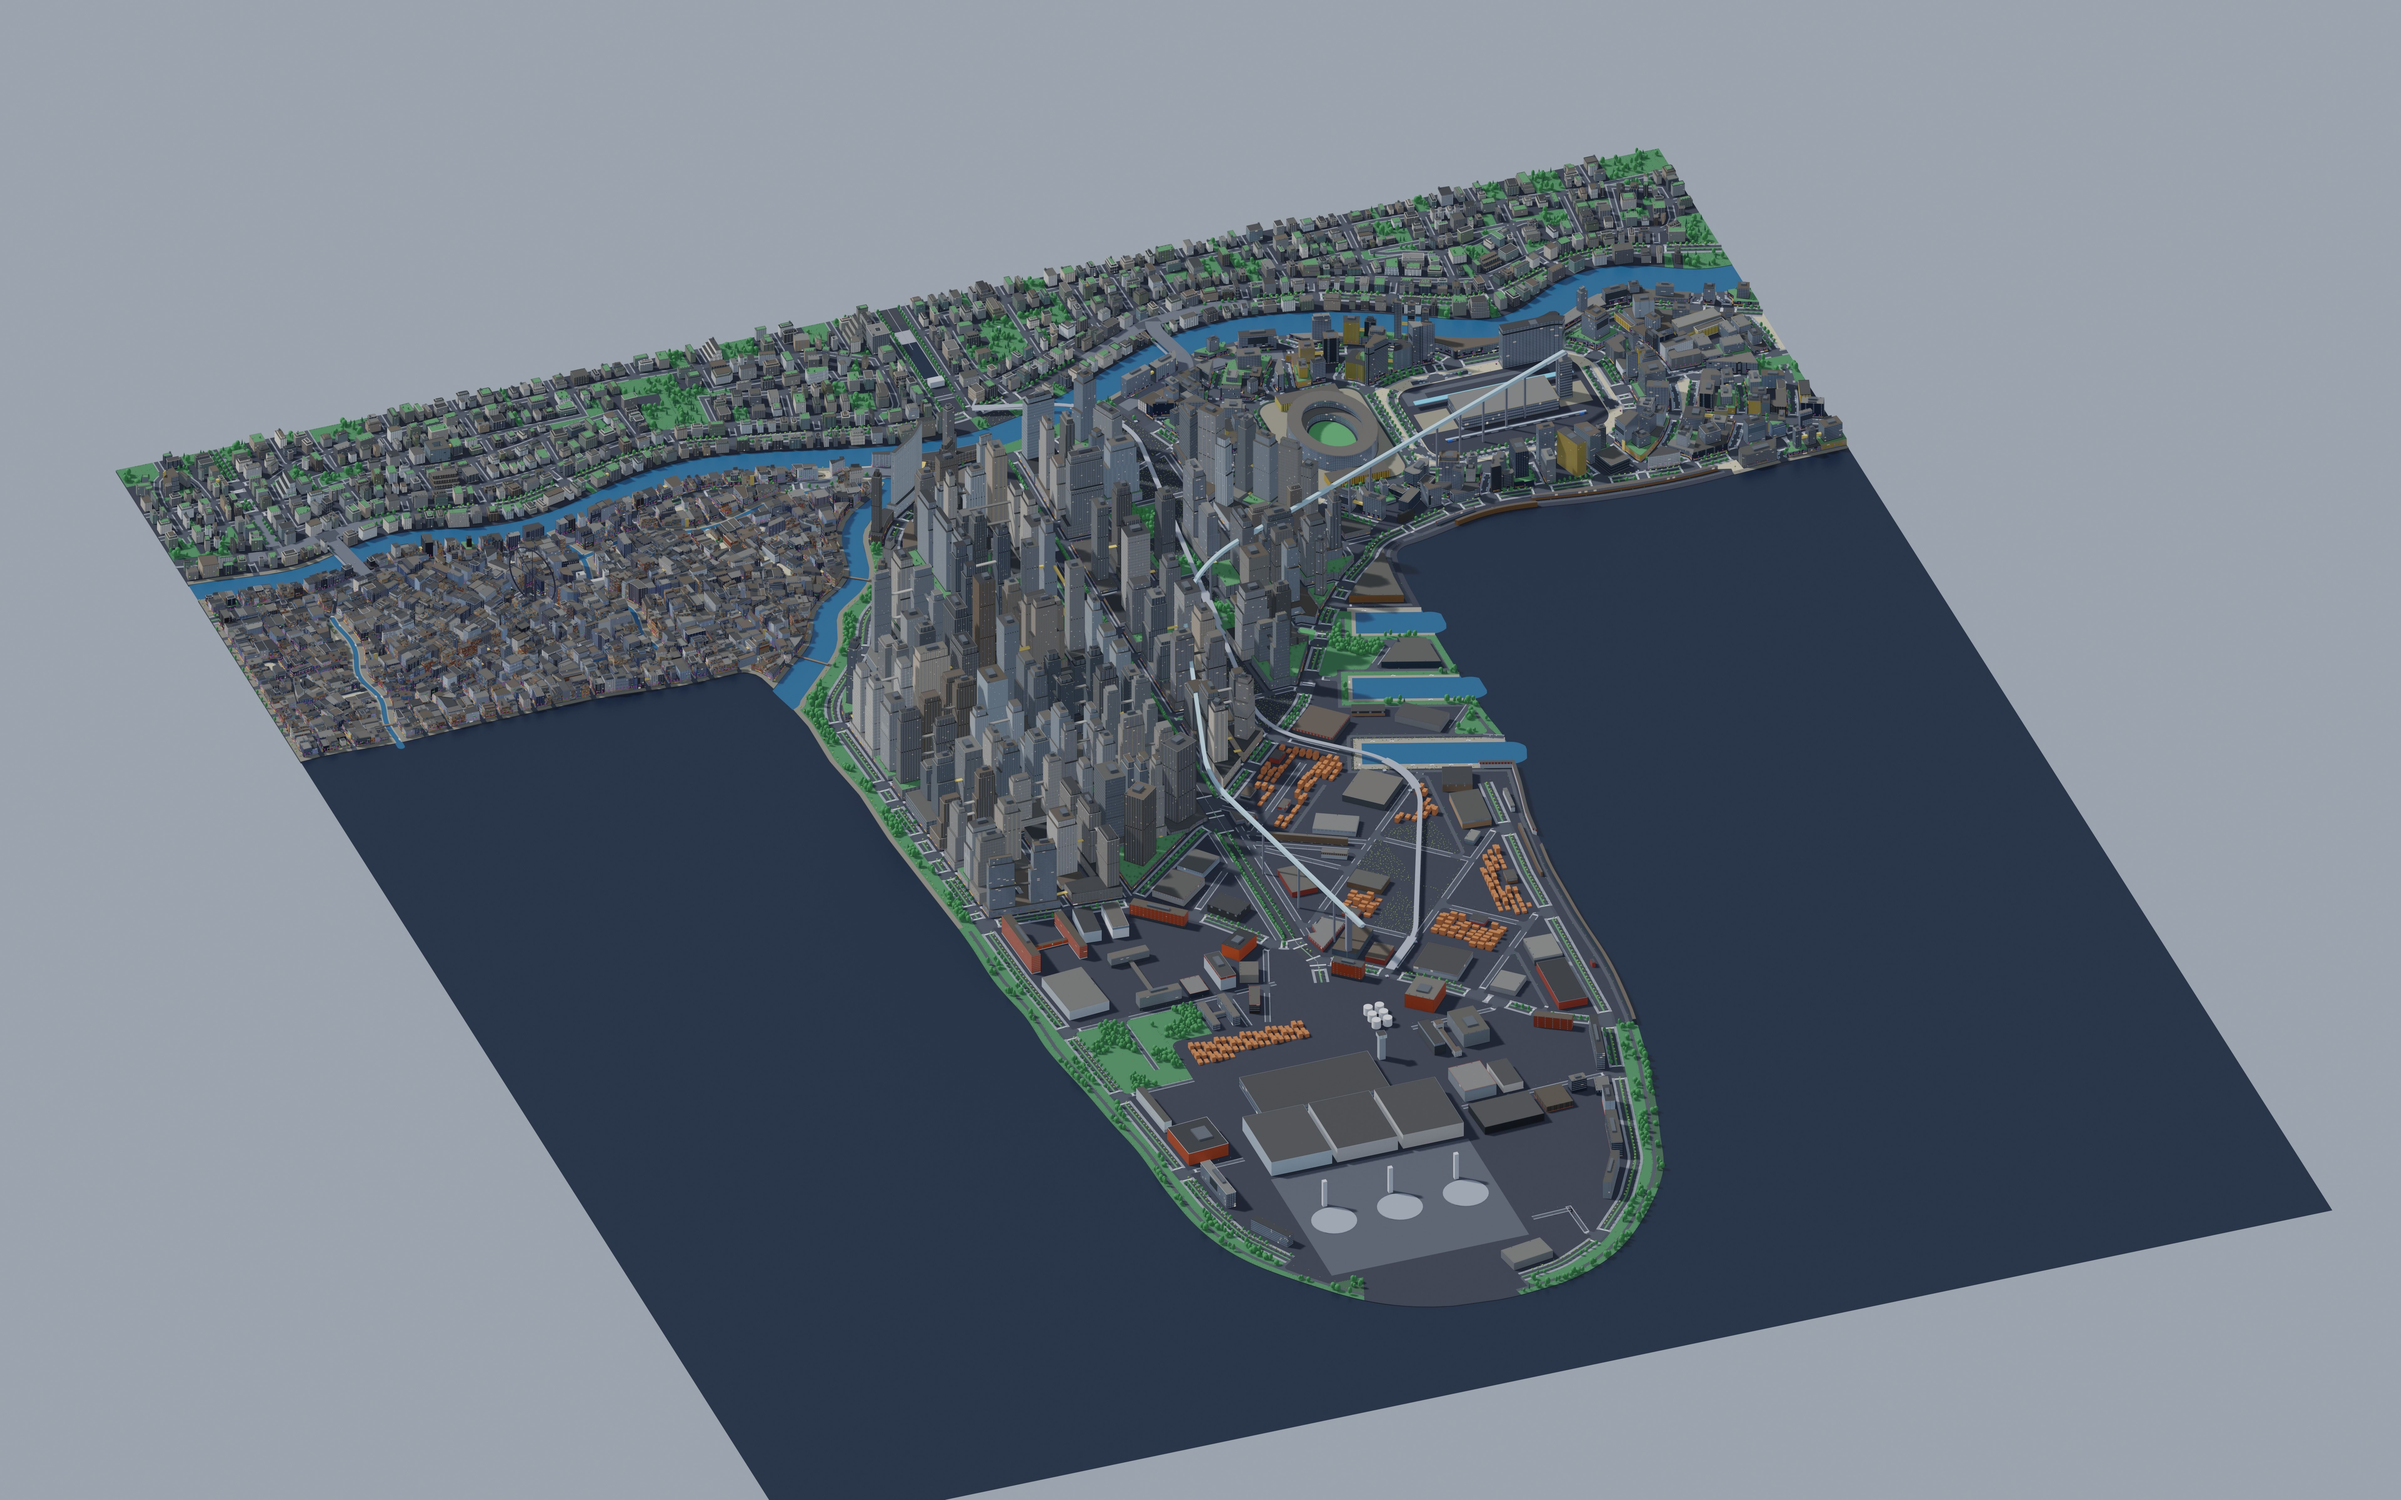
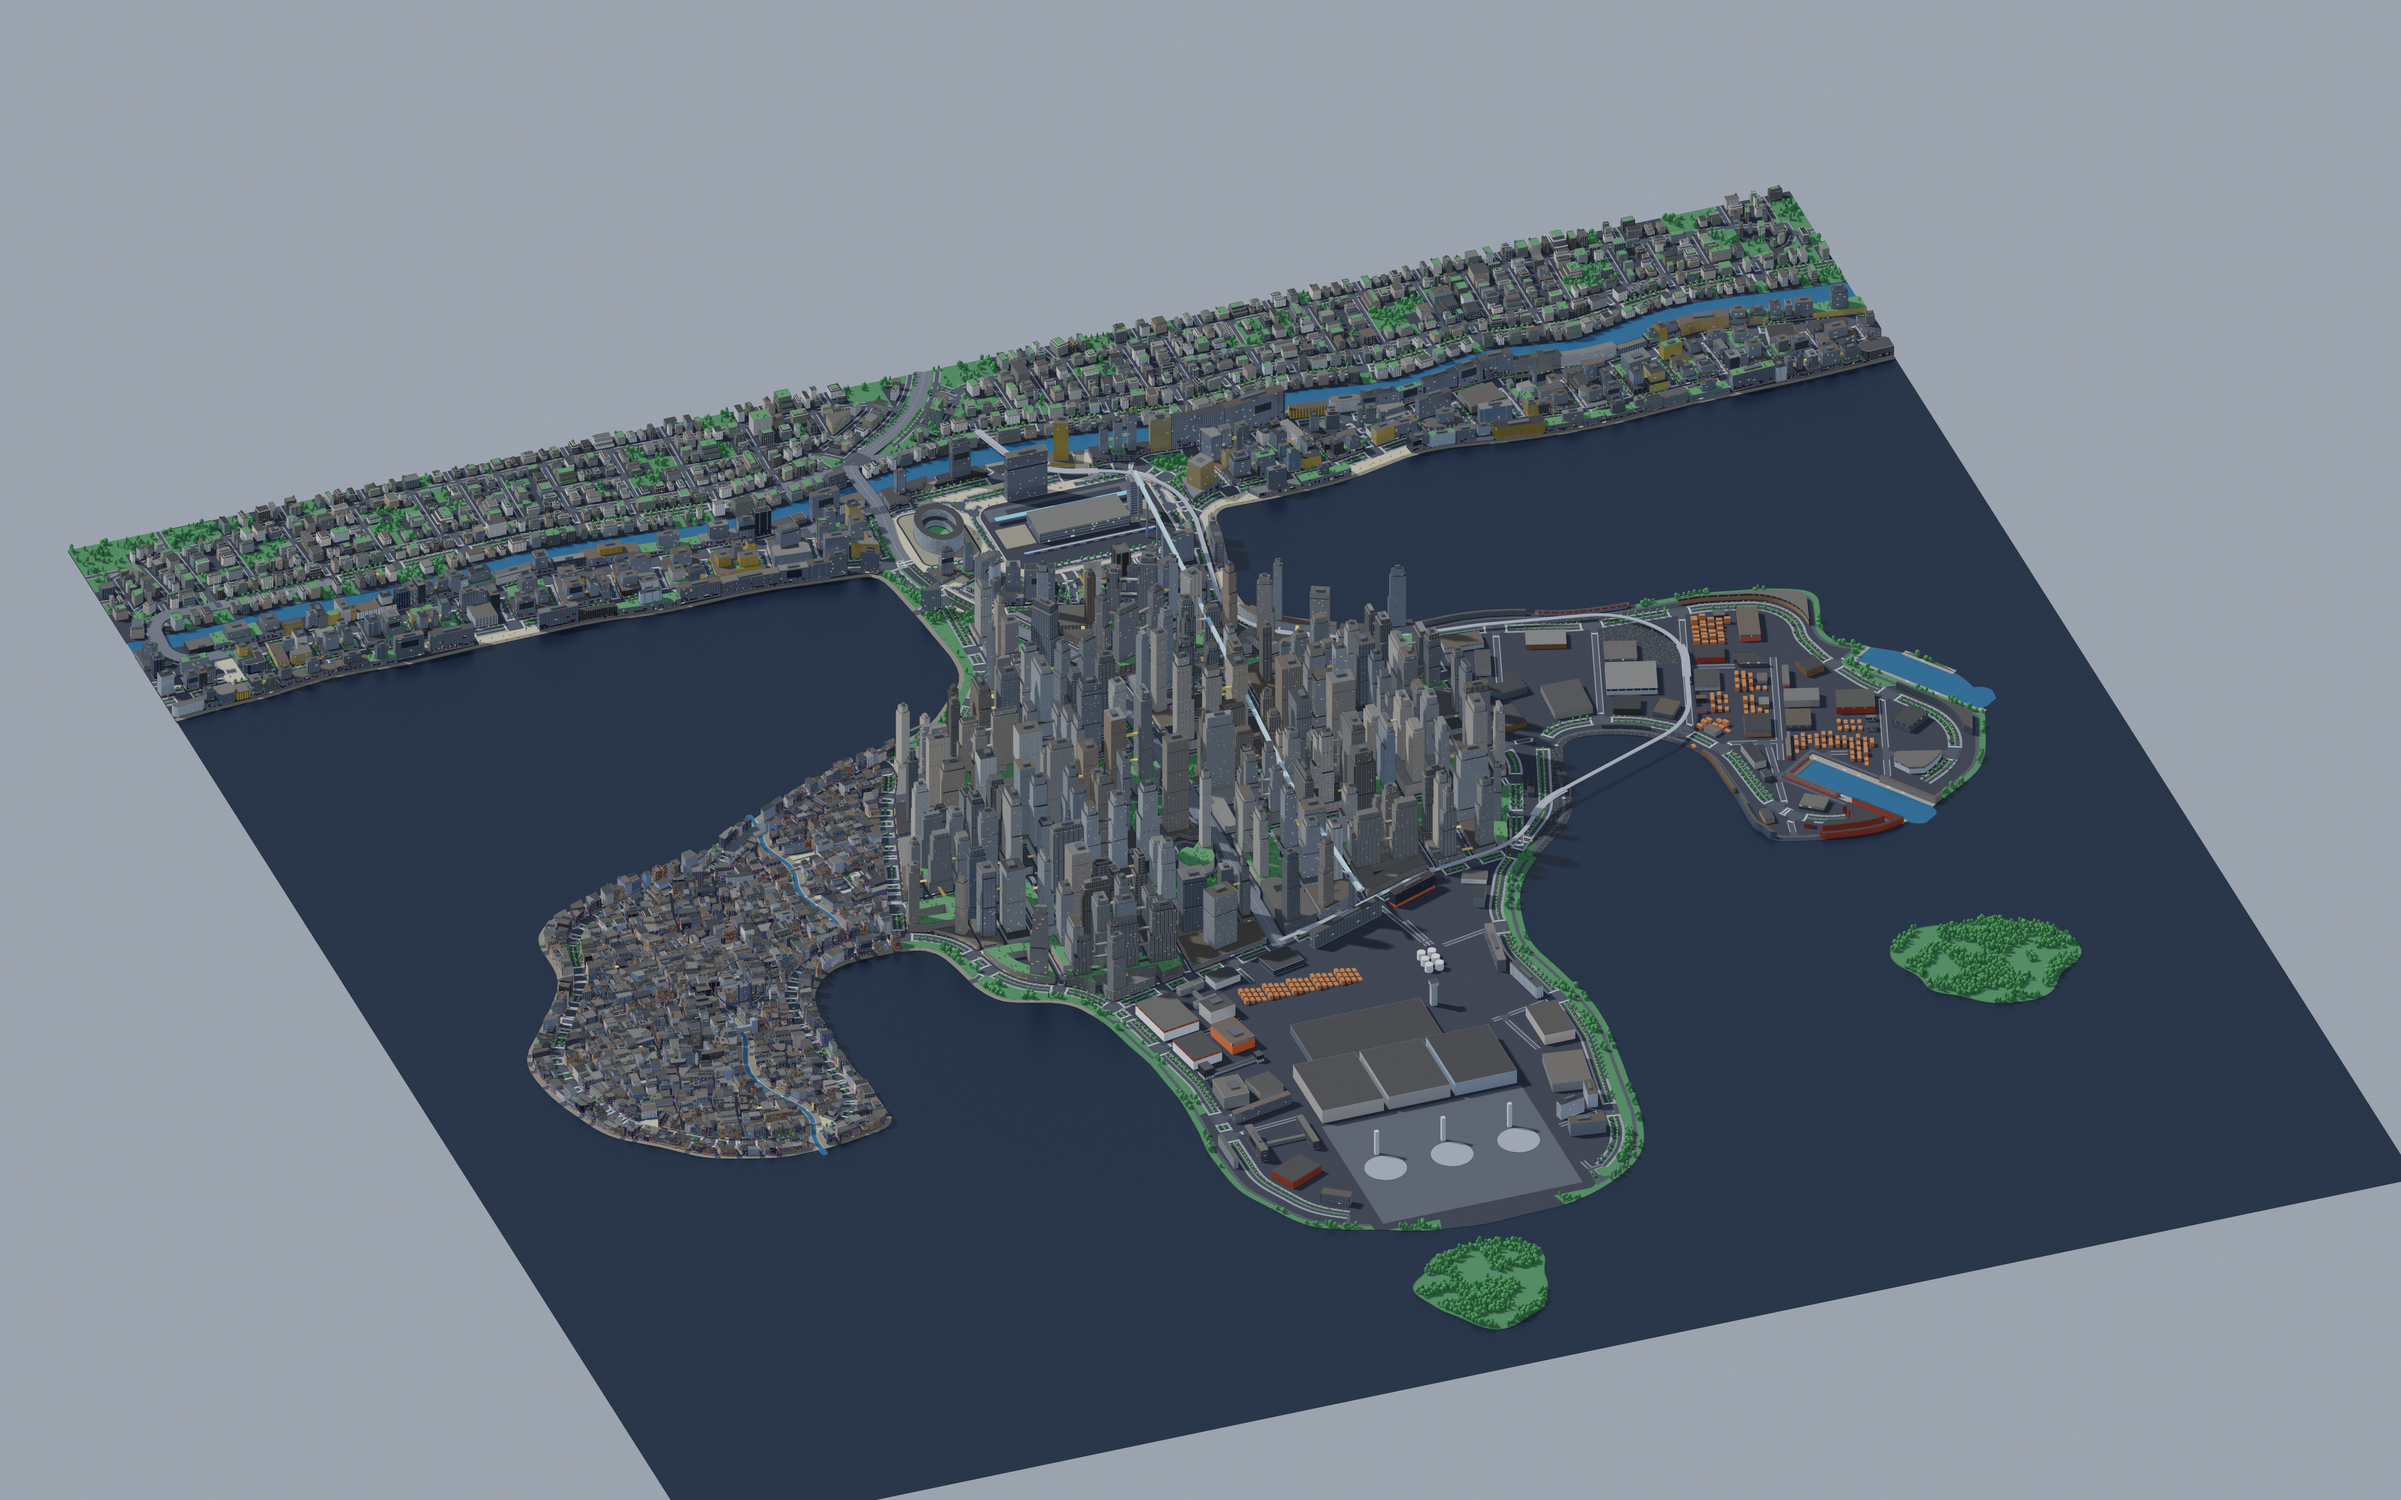
AG1: Greyhook outputs refreshed on the reshaped city
Greyhook's AG1 image and table rows were made before its reshape (three
headlands, two park islets, 2,671 buildings instead of 2,460).

- docs/progress/AG1/peninsula_city/city_full.jpg: every shell on the
  reshaped city, 8K, same view as before.
- AG1 samples tables (docs/assetgen_milestones.md, AG1 README): Greyhook
  2,671 buildings, 11.4 M shell triangles (0.49 of section 11), 0.66 GB
  packs, 26 s.
- The street stage failed `street_meshes` on the reshaped city: an avenue
  has two vertices 6 and 8 cm apart, and its 9 m curb offsets fold over
  them (one directed edge in two triangles). `roads.make` now remakes a
  road that fails the winding check from its line without such
  micro-kinks (`Path.tidied`); a passing road keeps its bytes, so the
  street goldens hold. Regression test with the piece's inputs.

diff --git a/assetgen/streets/roads.py b/assetgen/streets/roads.py
@@ -16,6 +16,7 @@ from .. import canon as C
 from . import materials as MT
 from .ctx import Ctx, bbox_center, dump
 from .kit import Mesh, ccw
+from .kit import check as mesh_check
 from .path import Path, Profile, first_exit, unit
 from .pieces import Out, Piece, maker, rnd
 
@@ -118,7 +119,7 @@ def gather(cx: Ctx, s) -> Piece:
 class Road:
     """A segment's geometry: its path, heights and the carriageway's ends."""
 
-    def __init__(self, inp: dict):
+    def __init__(self, inp: dict, tidy: bool = False):
         self.inp = inp
         self.seg = seg = inp["seg"]
         self.cls = inp["cls"]
@@ -133,6 +134,8 @@ class Road:
                 if len(inp["ground_pts"]) == len(self.path.p) else Profile([])
         else:
             self.gp = Profile([])
+        if tidy:
+            self.path = self.path.tidied()      # after the ground samples, which go by its vertices
         self.W = seg["width_m"]
         self.side = cs["sidewalk_m"][0]
         self.h = self.W / 2.0 if self.cls in PEDESTRIAN else self.W / 2.0 - self.side
@@ -230,8 +233,18 @@ class Road:
 
 @maker("road", 1)
 def make(inp: dict) -> Out:
+    """The road from its centerline as given; a road whose mesh fails the winding check (a
+    micro-kink in the line folds its curb's offset lines over each other) is made again
+    from the line without its micro-kinks."""
+    out = _make(inp, False)
+    if out.mesh is not None and mesh_check(out.mesh.slots)["winding"]:
+        out = _make(inp, True)
+    return out
+
+
+def _make(inp: dict, tidy: bool) -> Out:
     try:
-        rd = Road(inp)
+        rd = Road(inp, tidy)
     except ValueError:
         return Out(empty="degenerate centerline")
     seg, cls, style = rd.seg, rd.cls, inp["style"]

diff --git a/assetgen/streets/path.py b/assetgen/streets/path.py
@@ -12,6 +12,8 @@ import math
 from citygen import dmath as M
 
 MITER_CAP = 2.0
+TIDY_SEG_M = 0.5        #`Path.tidied`: a vertex this close to the last kept one ...
+TIDY_OFF_M = 0.02       # ... and this close to the line through its neighbors is dropped
 
 
 def dedupe(pts, tol: float = 0.005) -> list[tuple[float, float]]:
@@ -184,6 +186,22 @@ class Path:
                 t = -dy * ex + dx * ey
                 best = (d2, self.cum[i] + f, t)
         return best[1], best[2]
+
+    def tidied(self, seg_m: float = TIDY_SEG_M, off_m: float = TIDY_OFF_M) -> Path:
+        """The path without its micro-kinks: an inner vertex less than seg_m past the last
+        kept one and within off_m of the chord to the next vertex is dropped. A kink that
+        small barely bends the line, but a curb 9 m out swings round it on a radius of
+        meters, so its offset lines fold over themselves."""
+        keep = [self.p[0]]
+        for i in range(1, len(self.p) - 1):
+            a, b, c = keep[-1], self.p[i], self.p[i + 1]
+            ux, uy = unit(c[0] - a[0], c[1] - a[1])
+            off = abs((b[0] - a[0]) * uy - (b[1] - a[1]) * ux)
+            if dist(a, b) < seg_m and off <= off_m:
+                continue
+            keep.append(b)
+        keep.append(self.p[-1])
+        return self if len(keep) == len(self.p) else Path(keep)
 
     def sub(self, s0: float, s1: float) -> list[tuple[float, float]]:
         pts = [self.point(s0)]

diff --git a/tests/assetgen/test_ag_streets.py b/tests/assetgen/test_ag_streets.py
@@ -188,3 +188,16 @@ def test_vesper_bay_tiles_golden(tmp_path):
     got = SB.outputs_digest(tmp_path)
     assert {t: got["tiles"][t] for t in want["tiles"]} == want["tiles"]
     assert got["all"] == want["all"]
+
+
+def test_road_with_a_micro_kink_is_made_again_from_a_tidied_line():
+    """Greyhook's `rs.w1338n148` (its inputs, tests/assetgen/data/road_micro_kink.json): two
+    vertices 6 and 8 cm apart, 5 mm off the line, swing the 9 m curb offsets over each other
+    and leave a directed edge in two triangles; `make` remakes such a road from its line
+    without the kink."""
+    from assetgen.streets import roads
+    inp = json.loads((HERE / "data" / "road_micro_kink.json").read_text(encoding="utf-8"))
+    assert K.check(roads._make(inp, False).mesh.slots)["winding"] == 1
+    out = roads.make(inp)
+    assert not any(K.check(out.mesh.slots).values())
+    assert out.mesh.triangles == 266

diff --git a/docs/assetgen_milestones.md b/docs/assetgen_milestones.md
@@ -118,7 +118,7 @@ citygen (scope 4.5) gained the facade props M6 hangs where no wall spans their h
 | Saltreach Free Port | 3,135 | 15.4 M | 0.76 | 0.91 GB | 46 s |
 | Delta Megacity | 5,417 | 24.0 M | 0.65 | 1.41 GB | 75 s |
 | Nexus City | 6,519 | 21.5 M | 0.59 | 1.27 GB | 71 s |
-| Greyhook | 2,460 | 9.8 M | 0.48 | 0.58 GB | 23 s |
+| Greyhook | 2,671 | 11.4 M | 0.49 | 0.67 GB | 26 s |
 | Vesper Bay Pinned | 6,658 | 20.6 M | 0.54 | 1.22 GB | 62 s |
 | Vesper Bay Stacks | 6,686 | 20.1 M | 0.55 | 1.19 GB | 63 s |
 | Cragmouth | 6,800 | 22.7 M | 0.57 | 1.33 GB | 74 s (3 workers), streets 7 s more |
@@ -242,6 +242,16 @@ no pack. Sidewalks are the largest share (Vesper Bay 441 k triangles), then road
 junctions (180 k) and guideways (123 k). The scope's estimate of 10 to 20 M street triangles
 per city was ten times what the packs need with markings as geometry only where they are.
 
+**Greyhook after its reshape** (headlands and coves, builds on main since #35): 5,209 pieces
+in 117 tiles, 666,112 triangles, 41.0 MB, 2.6 s; the table above is the earlier one-tip
+shape. The reshaped coast gave an avenue two vertices 6 and 8 cm apart (5 mm off the line),
+and the 9 m curb offsets swung round them, folding over each other and leaving one directed
+edge in two triangles (`street_meshes`: winding 1). `roads.make` now makes a road whose mesh
+fails that check again from its line without such micro-kinks (`Path.tidied`: a vertex under
+0.5 m past the last kept one and within 2 cm of the line to the next one is dropped); a road
+that passes keeps its bytes, so the goldens are as they were. Test
+`test_road_with_a_micro_kink_is_made_again_from_a_tidied_line`.
+
 **Regenerations.** M10's eight district regenerations over copies of their base packs write
 17 to 34 tiles of 90 to 157; every changed piece is explained by its own entity or one it
 reads (a junction, crosswalk, tree or door) changing in either build, the farthest 20 to
@@ -253,7 +263,7 @@ Bay's, Nexus City's and Vesper Bay Stacks's packs, parts and contribution byte-i
 the Mac and in `citygen-x86`, where the small test city's tests and golden pass too. Goldens
 in their own file, `tests/assetgen/data/golden_streets.json` (the small test city and Vesper
 Bay, its six heaviest tiles named), written by `tests/assetgen/streets_goldens.py
-[--builds DIR]`. Tests: `tests/assetgen/test_ag_streets.py` (10).
+[--builds DIR]`. Tests: `tests/assetgen/test_ag_streets.py` (10, and the micro-kink one above).
 
 **Unreal.** No exporter code changed (AG1 owns it). `unreal_export.md` gains the street
 contribution's format and what the exporter still needs: read it as a second layer-2 file and

diff --git a/docs/progress/AG1/README.md b/docs/progress/AG1/README.md
@@ -18,7 +18,7 @@ district rebuilds only the tiles whose buildings changed.
 | Saltreach Free Port | 3,135 | 15.4 M (4,906 per building) | 20.3 M (0.76) | 0.82 M | 34, 367 | 0.90 GB + 15 MB | 46 s |
 | Delta Megacity | 5,417 | 24.0 M (4,424 per building) | 36.9 M (0.65) | 1.22 M | 40, 268 | 1.39 GB + 27 MB | 75 s |
 | Nexus City | 6,519 | 21.5 M (3,303 per building) | 36.8 M (0.59) | 1.03 M | 35, 335 | 1.24 GB + 31 MB | 71 s |
-| Greyhook | 2,460 | 9.8 M (3,992 per building) | 20.4 M (0.48) | 0.49 M | 23, 498 | 0.57 GB + 11 MB | 23 s |
+| Greyhook | 2,671 | 11.4 M (4,260 per building) | 23.3 M (0.49) | 0.58 M | 23, 498 | 0.66 GB + 12 MB | 26 s |
 | Vesper Bay Pinned | 6,658 | 20.6 M (3,090 per building) | 38.4 M (0.54) | 0.92 M | 34, 336 | 1.19 GB + 31 MB | 62 s |
 | Vesper Bay Stacks | 6,686 | 20.1 M (3,003 per building) | 36.6 M (0.55) | 0.89 M | 34, 334 | 1.16 GB + 31 MB | 63 s |
 | Cragmouth (M13, on main since) | 6,800 | 22.7 M (3,331 per building) | 40.0 M (0.57) | 1.03 M | 40, 269 | 1.30 GB + 34 MB | 74 s (3 workers) |
